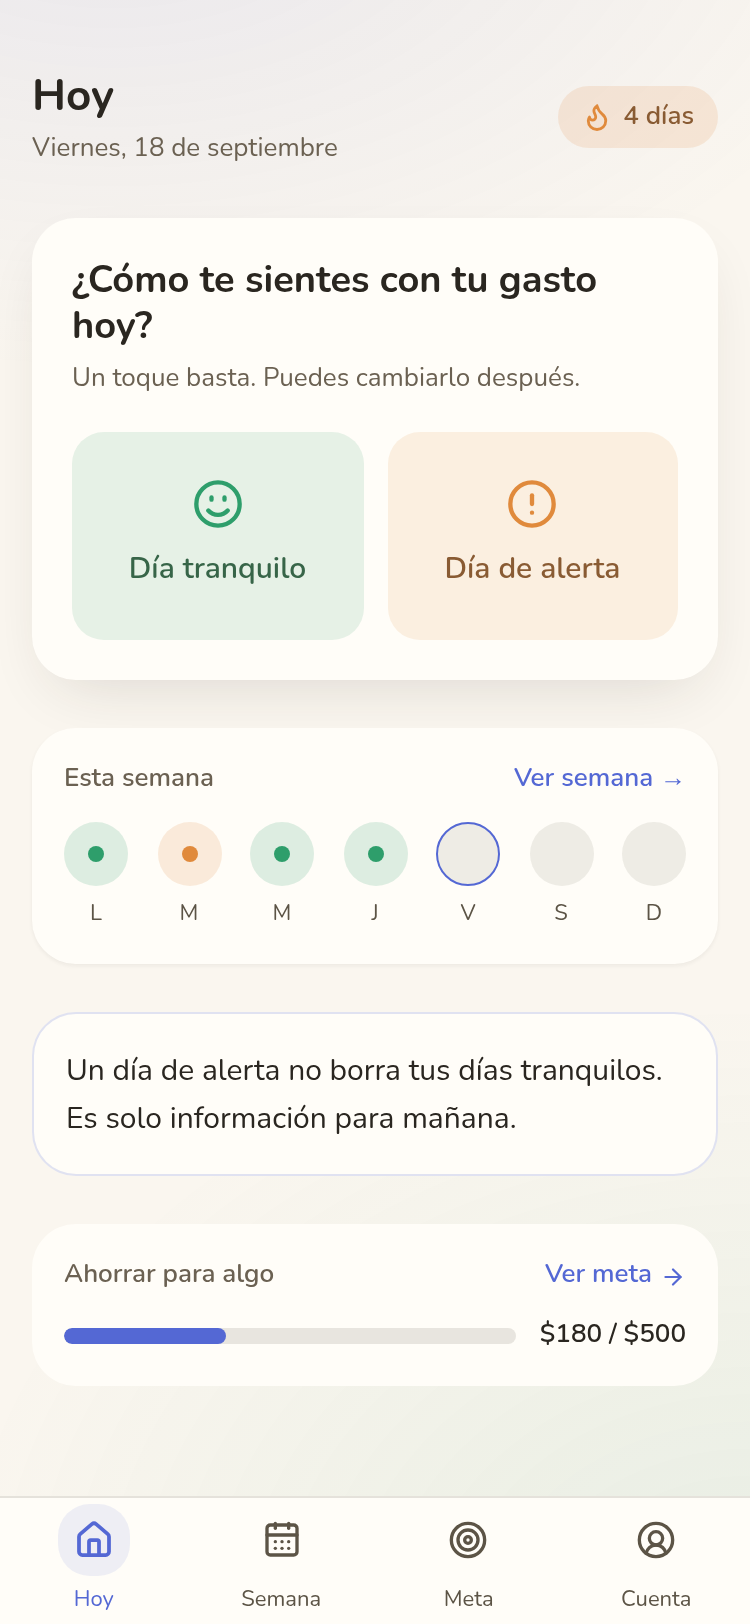
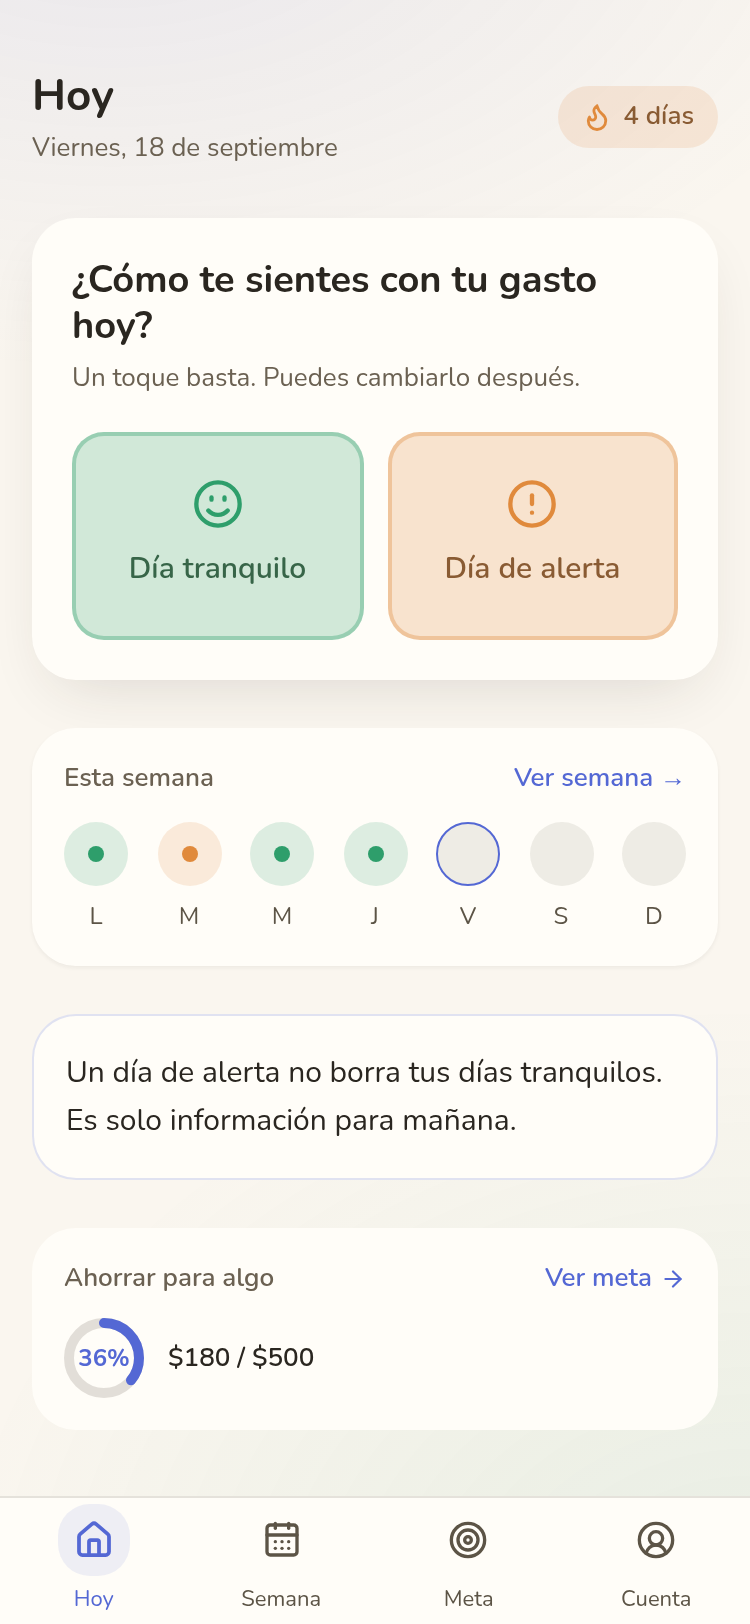
fix: Hoy — aviso de guardado, anillo de meta, contraste y racha en confirmación
Ronda 1 del revisor-visual sobre la pantalla principal (32/40 · 12/20):
aviso visible si localStorage falla en vez de mentir sobre el guardado,
el anillo de respiración (dispositivo ownable) reemplaza la barra lineal
en la vista previa de la meta, contraste subido en los botones del
semáforo (12%→22% + borde visible en reposo), y la racha aparece también
en la confirmación del día para no dejar la tarjeta corta.

Claude-Session: https://claude.ai/code/session_013BYtLeMwZuWh58hVzwvyD5

diff --git a/app/app/page.tsx b/app/app/page.tsx
@@ -7,21 +7,21 @@
 import Link from 'next/link';
 import { useEffect, useState } from 'react';
 import { motion, useReducedMotion, type Variants } from 'motion/react';
-import { Check, Pencil, Smile, AlertCircle } from 'lucide-react';
+import { AlertTriangle, ArrowRight, Check, Pencil, Smile, AlertCircle, Target } from 'lucide-react';
 import {
   asegurarInicioTrial,
   calcularRacha,
   checkInDeHoy,
   hoyISO,
   leerEstadoApp,
+  localStorageDisponible,
   metaSincronizada,
   reflexionDeHoy,
   registrarCheckIn,
   type EstadoApp,
   type EstadoSemaforo,
 } from '@/lib/app';
-import { formatearFechaLarga, inicialDia, RachaBadge } from '@/components/app/ui';
-import { ArrowRight, Target } from 'lucide-react';
+import { AnilloProgreso, formatearFechaLarga, inicialDia, RachaBadge } from '@/components/app/ui';
 
 function useVariantes(): { contenedor: Variants; item: Variants } {
   const reduce = useReducedMotion();
@@ -37,15 +37,18 @@ function useVariantes(): { contenedor: Variants; item: Variants } {
 export default function Hoy() {
   const [estado, setEstado] = useState<EstadoApp | null>(null);
   const [editando, setEditando] = useState(false);
+  const [avisoGuardado, setAvisoGuardado] = useState(false);
   const { contenedor, item } = useVariantes();
 
   useEffect(() => {
     setEstado(asegurarInicioTrial());
+    setAvisoGuardado(!localStorageDisponible());
   }, []);
 
   function marcar(valor: EstadoSemaforo) {
     setEstado(registrarCheckIn(valor));
     setEditando(false);
+    setAvisoGuardado(!localStorageDisponible());
   }
 
   if (!estado) {
@@ -76,11 +79,25 @@ export default function Hoy() {
         <RachaBadge dias={racha} />
       </motion.header>
 
+      {avisoGuardado && (
+        <motion.div
+          variants={item}
+          role="status"
+          className="flex items-start gap-2.5 rounded-[var(--radius-button)] bg-[color-mix(in_oklab,var(--accent-3)_14%,transparent)] p-3"
+        >
+          <AlertTriangle size={16} strokeWidth={2} color="var(--accent-3)" aria-hidden="true" className="mt-0.5 shrink-0" />
+          <p className="text-[13px] leading-snug text-[var(--accent-3-text)]">
+            Tu navegador no está guardando tus registros — funcionan mientras tengas esta pestaña abierta, pero se
+            pierden si la cierras.
+          </p>
+        </motion.div>
+      )}
+
       <motion.section variants={item}>
         {!checkin || editando ? (
           <SelectorSemaforo checkin={checkin} onElegir={marcar} />
         ) : (
-          <ConfirmacionDia estado={checkin.estado} onCambiar={() => setEditando(true)} />
+          <ConfirmacionDia estado={checkin.estado} racha={racha} onCambiar={() => setEditando(true)} />
         )}
       </motion.section>
 
@@ -115,7 +132,7 @@ export default function Hoy() {
                   />
                 )}
               </span>
-              <span className="text-[11px] font-medium text-[var(--text-tertiary)]">{inicialDia(i)}</span>
+              <span className="text-[12px] font-medium text-[var(--text-tertiary)]">{inicialDia(i)}</span>
             </div>
           ))}
         </div>
@@ -173,15 +190,10 @@ function VistaPreviaMeta({ estado }: { estado: EstadoApp }) {
         </span>
       </div>
       <div className="flex items-center gap-3">
-        <div className="h-2 flex-1 overflow-hidden rounded-full bg-[color-mix(in_oklab,var(--text-tertiary)_14%,transparent)]">
-          <motion.div
-            className="h-full rounded-full bg-[var(--accent)]"
-            initial={{ width: 0 }}
-            animate={{ width: `${porcentaje}%` }}
-            transition={{ duration: 0.7, ease: [0.16, 1, 0.3, 1] }}
-          />
-        </div>
-        <span className="shrink-0 text-[13px] font-semibold text-[var(--text-primary)]">
+        <AnilloProgreso porcentaje={porcentaje} tamano={40} grosor={5}>
+          <span className="text-[12px] font-bold [font-variant-numeric:tabular-nums] text-[var(--accent)]">{porcentaje}%</span>
+        </AnilloProgreso>
+        <span className="text-[13px] font-semibold text-[var(--text-primary)]">
           {meta.modo === 'monto' ? `$${meta.actual}` : `${meta.actual}${unidad}`} / {meta.modo === 'monto' ? '$' : ''}
           {meta.objetivo}
           {unidad}
@@ -227,9 +239,11 @@ function SelectorSemaforo({
           aria-pressed={checkin?.estado === 'tranquilo'}
           className="flex h-[104px] flex-col items-center justify-center gap-2 rounded-[var(--radius-button)] [touch-action:manipulation]"
           style={{
-            background: 'color-mix(in oklab, var(--accent-2) 12%, transparent)',
+            background: 'color-mix(in oklab, var(--accent-2) 22%, transparent)',
             border:
-              checkin?.estado === 'tranquilo' ? '2px solid var(--accent-2)' : '2px solid transparent',
+              checkin?.estado === 'tranquilo'
+                ? '2px solid var(--accent-2)'
+                : '2px solid color-mix(in oklab, var(--accent-2) 35%, transparent)',
           }}
         >
           <Smile size={26} strokeWidth={2} color="var(--accent-2)" aria-hidden="true" />
@@ -242,8 +256,11 @@ function SelectorSemaforo({
           aria-pressed={checkin?.estado === 'alerta'}
           className="flex h-[104px] flex-col items-center justify-center gap-2 rounded-[var(--radius-button)] [touch-action:manipulation]"
           style={{
-            background: 'color-mix(in oklab, var(--accent-3) 12%, transparent)',
-            border: checkin?.estado === 'alerta' ? '2px solid var(--accent-3)' : '2px solid transparent',
+            background: 'color-mix(in oklab, var(--accent-3) 22%, transparent)',
+            border:
+              checkin?.estado === 'alerta'
+                ? '2px solid var(--accent-3)'
+                : '2px solid color-mix(in oklab, var(--accent-3) 35%, transparent)',
           }}
         >
           <AlertCircle size={26} strokeWidth={2} color="var(--accent-3)" aria-hidden="true" />
@@ -254,7 +271,15 @@ function SelectorSemaforo({
   );
 }
 
-function ConfirmacionDia({ estado, onCambiar }: { estado: EstadoSemaforo; onCambiar: () => void }) {
+function ConfirmacionDia({
+  estado,
+  racha,
+  onCambiar,
+}: {
+  estado: EstadoSemaforo;
+  racha: number;
+  onCambiar: () => void;
+}) {
   const tranquilo = estado === 'tranquilo';
   return (
     <div className="flex items-center gap-4 rounded-[var(--radius-card)] bg-[var(--surface)] p-5 shadow-[var(--shadow-2)]">
@@ -266,13 +291,16 @@ function ConfirmacionDia({ estado, onCambiar }: { estado: EstadoSemaforo; onCamb
         <Check size={24} strokeWidth={2.5} color={tranquilo ? 'var(--accent-2)' : 'var(--accent-3)'} aria-hidden="true" />
       </span>
       <div className="min-w-0 flex-1">
-        <p className="text-[17px] font-bold [font-family:var(--font-display)]">
+        <p className="text-[19px] font-bold [font-family:var(--font-display)]">
           Marcaste: {tranquilo ? 'día tranquilo' : 'día de alerta'}
+        </p>
+        <p className="mt-0.5 text-[13px] text-[var(--text-secondary)]">
+          {racha <= 1 ? 'Tu primer día registrado.' : `Llevas ${racha} días seguidos marcando tu Semáforo.`}
         </p>
         <button
           type="button"
           onClick={onCambiar}
-          className="mt-1 inline-flex items-center gap-1 text-[13px] font-semibold text-[var(--accent)]"
+          className="mt-2 inline-flex items-center gap-1 text-[13px] font-semibold text-[var(--accent)]"
         >
           <Pencil size={13} strokeWidth={2} aria-hidden="true" /> Cambiar
         </button>

diff --git a/lib/app.ts b/lib/app.ts
@@ -57,6 +57,22 @@ function guardarEstadoApp(estado: EstadoApp): EstadoApp {
   return estado;
 }
 
+/** Prueba real de escritura (no solo `typeof window`): en navegación privada
+ * o con storage bloqueado, `localStorage` existe pero cada `setItem` lanza.
+ * Hoy la usa para avisar que un check-in NO quedó guardado de verdad —
+ * revisor-visual ronda 1: mostrar la confirmación igual sería mentirle al
+ * usuario sobre si su registro sobrevive a cerrar la pestaña. */
+export function localStorageDisponible(): boolean {
+  try {
+    const clave = '__respira_test__';
+    window.localStorage.setItem(clave, '1');
+    window.localStorage.removeItem(clave);
+    return true;
+  } catch {
+    return false;
+  }
+}
+
 /** Se llama una vez al entrar a la app interna: marca el inicio de la prueba
  * gratis (para Cuenta) si es la primera vez, sin tocar nada más. */
 export function asegurarInicioTrial(): EstadoApp {

diff --git a/docs/revisiones/pantalla-principal-veredicto.md b/docs/revisiones/pantalla-principal-veredicto.md
@@ -1,0 +1,14 @@
+# VEREDICTO revisor-visual — Hoy (pantalla principal / M0)
+Fecha: 2026-09-18 00:00
+Screenshot: docs/revisiones/pantalla-principal-375.png
+Usabilidad: 32/40
+Craft: 12/20
+Copy (si vende): N-A
+Fidelidad (si hubo referencia): N-A
+Veredicto: NO LISTA
+Top defectos:
+1. [lib/app.ts:51-58, guardarEstadoApp] Si localStorage falla (modo privado/bloqueado), el check-in se pierde en silencio — el catch solo comenta "la sesión sigue en memoria" y la UI igual muestra la confirmación como si se hubiera guardado → mostrar un aviso visible ("No pudimos guardar tu registro") con reintento cuando falle la escritura.
+2. [Evidencia/proceso] El screenshot entregado no corresponde al estado declarado (racha de 5 días con check-in de hoy ya hecho): muestra el selector sin marcar, racha "4 días" y el círculo de "V" (hoy) vacío en el resumen semanal → regenerar el screenshot con datos semilla que incluyan el check-in de hoy antes de la próxima revisión; el estado de confirmación (ConfirmacionDia) queda sin verificar visualmente.
+3. [FICHA-ARTE vs código] El dispositivo ownable declarado ("el anillo de respiración... mismo gesto que el nombre de la app") no aparece en la pantalla que más se abre: app/app/page.tsx usa una barra lineal para la meta (líneas 176-183) y `AnilloProgreso` solo se usa en app/app/meta/page.tsx, no en Hoy → usar el anillo (aunque sea pequeño, en el chip de racha o en la vista previa de meta) en esta pantalla.
+4. [app/app/page.tsx:229-247, botones del selector] El fondo de "Día tranquilo"/"Día de alerta" usa color-mix al 12% de accent-2/accent-3 sobre --surface (#FFFDF8) — la diferencia de luminancia contra la tarjeta es mínima (la única señal es el matiz, verde vs naranja pálidos), lo que falla el contraste ≥3:1 exigido al CTA héroe y perjudica a usuarios con daltonismo → subir el tinte a ≥20-25% o agregar un borde visible en reposo, no solo al seleccionar.
+5. [Escala tipográfica] FICHA-ARTE.md declara 4 tamaños (34/19/15/12) pero la pantalla usa al menos 6 no declarados: 22px en el h1 "Hoy" (page.tsx:73), 17px en "Marcaste: ..." (page.tsx:269), 11px en las iniciales de día (components/app/ui.tsx:118) contra el label de 12px de la ficha → consolidar a los 4 tamaños de la ficha o ampliar formalmente la escala documentada.
